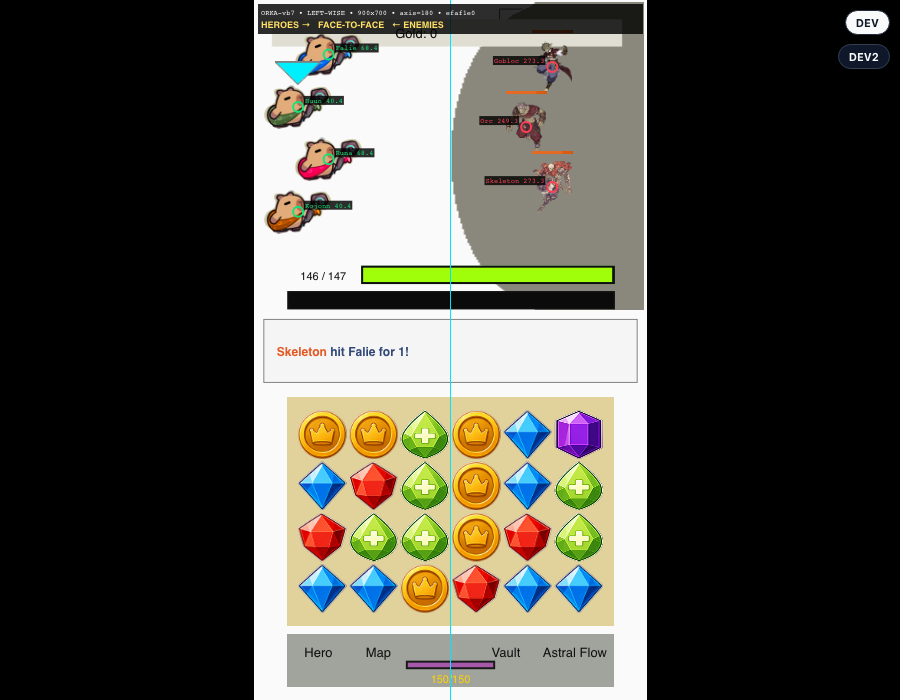
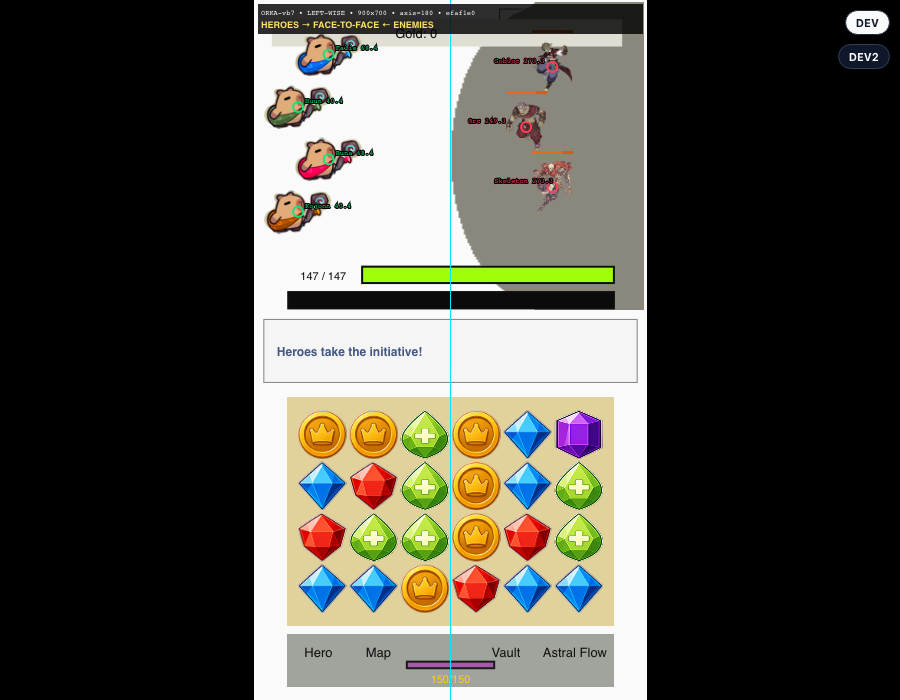
test(qa): tighten equal-state combat proof
Freeze both orientations at full HP with identical actor and gem fingerprints before capture.

Replace compositor-affected frames with artifact-free annotated screenshots.

bd-ORKA-vb7

diff --git a/governance/qa/ORKA-vb7-combat-orientation/README.md b/governance/qa/ORKA-vb7-combat-orientation/README.md
@@ -12,6 +12,8 @@ The cyan line marks the reflection axis. Green rings mark hero standing pivots; 
 
 The original right-wise QA frame exposed a presentation defect: reflected pivots moved directional/asymmetric art without reflecting its pixels, leaving teams back-to-back and silhouettes biased right. Commit `efaf1e0` reflects only right-wise actor pixels about the already-correct oriented pivot, including hit-flash redraws. Source assets, pivots, hit regions, combat state, and rules are unchanged.
 
+Final paired captures were frozen at full party HP (`147/147`) with identical hero/enemy HP and identical 24-gem color order before annotation. This removes combat progression as a comparison variable.
+
 ## Images
 
 - `left-wise-1200x800.png` / `right-wise-1200x800.png`
